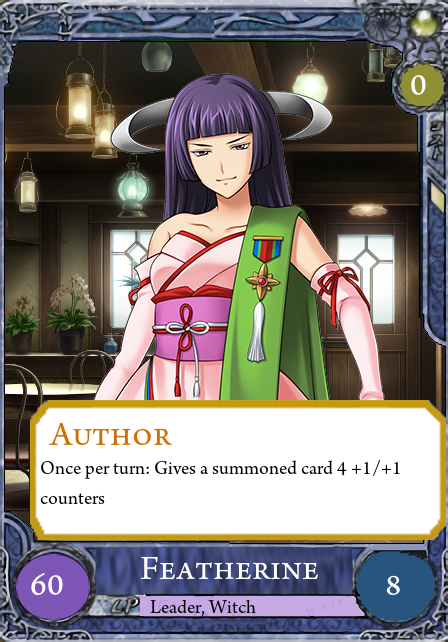
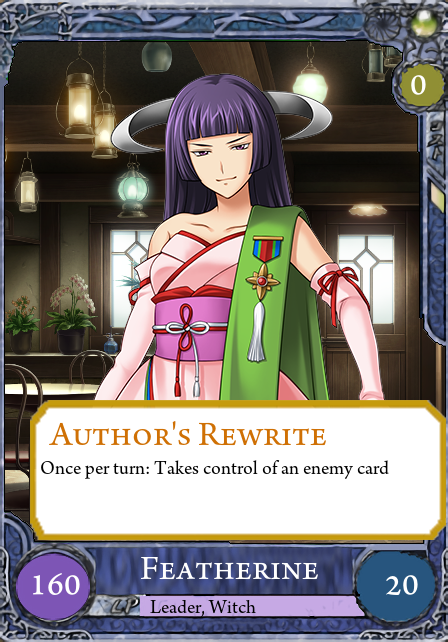
All cards in the game

diff --git a/Assets/Scripts/Deck.cs b/Assets/Scripts/Deck.cs
@@ -254,9 +254,9 @@ public class Deck
         }
     }
 
-    public void EvaCard()
+    public void Eva2Card()
     {
-        Card Eva = new Card(1, 9, 3, CardEffects.EvaEffect, "Eva", new List<TagType> { TagType.Human }, true, false, 0);
+        Card Eva = new Card(1, 9, 3, CardEffects.EvaEffect, "Eva2", new List<TagType> { TagType.Human }, true, false, 0);
         AddCardRegister(Eva);
         if (EffectListener.INSTANCE != null)
         {
@@ -304,6 +304,12 @@ public class Deck
         {
             EffectListener.INSTANCE.CanAttackFromAnywhereList.Add(Rosa);
         }
+    }
+
+    public void Battler2Card()
+    {
+        Card Battler = new Card(1, 12, 1, CardEffects.BattlerEffect, "Battler2", new List<TagType> {TagType.Human }, false, false, 1);
+        AddCardRegister(Battler);
     }
 
     public void SakutarouCard()
@@ -381,7 +387,41 @@ public class Deck
     public void Chiester556Card()
     {
         Card Chiester556 = new Card(2, 20, 10, CardEffects.Chiester556Effect, "Chiester556", new List<TagType> { TagType.Chiester, TagType.Summon }, true, false, 1);
+        if (EffectListener.INSTANCE != null)
+        {
+            EffectListener.INSTANCE.TurnEndingList.Add(Chiester556);
+        }
         AddCardRegister(Chiester556);
+    }
+
+    public void BernkastelCard()
+    {
+        Card Bernkastel = new Card(3, 36, 10, CardEffects.BernkastelEffect, "Bernkastel", new List<TagType> { TagType.Witch}, false, false, 1);
+        AddCardRegister(Bernkastel);
+    }
+
+    public void AngeBeatriceCard()
+    {
+        Card AngeBeatrice = new Card(2, 36, 10, CardEffects.AngeBeatriceEffect, "AngeBeatrice", new List<TagType> { TagType.Witch }, false, false, 2);
+        AddCardRegister(AngeBeatrice);
+    }
+
+    public void EvaBeatrice2Card()
+    {
+        Card EvaBeatrice = new Card(2, 36, 10, CardEffects.EvaBeatriceEffect, "EvaBeatrice2", new List<TagType> { TagType.Witch }, false, false, 1);
+        AddCardRegister(EvaBeatrice);
+    }
+
+    public void PieceCard()
+    {
+        Card Piece = new Card(3, 36, 10, CardEffects.PieceEffect, "Piece", new List<TagType> { TagType.Witch }, false, false, 2);
+        AddCardRegister(Piece);
+    }
+
+    public void CatsCard()
+    {
+        Card Cats = new Card(1, 1, 1, CardEffects.CatsEffect, "Cats", new List<TagType> { TagType.Cat }, true, false, 1);
+        AddCardRegister(Cats);
     }
 
     public void StartingDeck()
@@ -530,7 +570,7 @@ public class Deck
 
         AddCardToDeck(CardsByID.Rudolf, saveCard: false);
         AddCardToDeck(CardsByID.Kyrie, saveCard: false);
-        AddCardToDeck(CardsByID.Eva, saveCard: false);
+        AddCardToDeck(CardsByID.Eva2, saveCard: false);
         AddCardToDeck(CardsByID.George, saveCard: false);
         AddCardToDeck(CardsByID.Hideyoshi, saveCard: false);
         AddCardToDeck(CardsByID.Jessica, saveCard: false);
@@ -566,6 +606,17 @@ public class Deck
         AddCardToDeck(CardsByID.Cornelia, saveCard: false);
         AddCardToDeck(CardsByID.Gertrude, saveCard: false);
         AddCardToDeck(CardsByID.Dlanor, saveCard: false);
+    }
+
+    public void Featherine()
+    {
+        this.leaderCard = new Card(0, 160, 20, CardEffects.Featherineffect, "Featherine", new List<TagType> { TagType.Leader, TagType.Witch }, false, false, 1);
+        AddCardRegister(this.leaderCard, true);
+        AddCardToDeck(CardsByID.FutureGoat, 10, false);
+        AddCardToDeck(CardsByID.Bernkastel, saveCard: false);
+        AddCardToDeck(CardsByID.Piece, saveCard: false);
+        AddCardToDeck(CardsByID.AngeBeatrice, saveCard: false);
+        AddCardToDeck(CardsByID.EvaBeatrice2, saveCard: false);
     }
 
     // 1-6, 2-6, 3-6
@@ -661,13 +712,13 @@ public class Deck
         }
         else if (rn <= 15)
         {
-            possibleRewards = new List<CardsByID> {CardsByID.Rosa };
+            possibleRewards = new List<CardsByID> {CardsByID.Rosa, CardsByID.Battler2};
             int rnpr = new Random().Next(0, possibleRewards.Count);
             reward = possibleRewards[rnpr];
         }
         else
         {
-            possibleRewards = new List<CardsByID> { CardsByID.Rudolf, CardsByID.Kyrie, CardsByID.Eva, CardsByID.George, CardsByID.Jessica, CardsByID.Hideyoshi, CardsByID.Krauss };
+            possibleRewards = new List<CardsByID> { CardsByID.Rudolf, CardsByID.Kyrie, CardsByID.Eva2, CardsByID.George, CardsByID.Jessica, CardsByID.Hideyoshi, CardsByID.Krauss };
             int rnpr = new Random().Next(0, possibleRewards.Count);
             reward = possibleRewards[rnpr];
         }
@@ -720,6 +771,57 @@ public class Deck
         AddCardToInventory(reward);
     }
 
+    public static void FeatherineReward()
+    {
+        int rn = new Random().Next(1, 31);
+        CardsByID reward;
+        List<CardsByID> possibleRewards;
+        if (rn <= 5)
+        {
+            possibleRewards = new List<CardsByID> { CardsByID.Bernkastel, CardsByID.Piece };
+            int rnpr = new Random().Next(0, possibleRewards.Count);
+            reward = possibleRewards[rnpr];
+        }
+        else if (rn <= 15)
+        {
+            possibleRewards = new List<CardsByID> { CardsByID.AngeBeatrice, CardsByID.EvaBeatrice2 };
+            int rnpr = new Random().Next(0, possibleRewards.Count);
+            reward = possibleRewards[rnpr];
+        }
+        else
+        {
+            possibleRewards = new List<CardsByID> { CardsByID.Cats, CardsByID.FutureGoat };
+            int rnpr = new Random().Next(0, possibleRewards.Count);
+            reward = possibleRewards[rnpr];
+        }
+        AddCardToInventory(reward);
+    }
+    public static void GohdaReward()
+    {
+        int rn = new Random().Next(1, 31);
+        CardsByID reward;
+        List<CardsByID> possibleRewards;
+        if (rn <= 5)
+        {
+            possibleRewards = new List<CardsByID> { CardsByID.Dlanor };
+            int rnpr = new Random().Next(0, possibleRewards.Count);
+            reward = possibleRewards[rnpr];
+        }
+        else if (rn <= 15)
+        {
+            possibleRewards = new List<CardsByID> { CardsByID.Gertrude, CardsByID.Cornelia };
+            int rnpr = new Random().Next(0, possibleRewards.Count);
+            reward = possibleRewards[rnpr];
+        }
+        else
+        {
+            possibleRewards = new List<CardsByID> { CardsByID.FutureGoat };
+            int rnpr = new Random().Next(0, possibleRewards.Count);
+            reward = possibleRewards[rnpr];
+        }
+        AddCardToInventory(reward);
+    }
+    
     public Card FindCardInDeck(string name)
     {
         List<Card> cardsList = this.cards.ToList(); 
@@ -764,7 +866,7 @@ public class Deck
         Kyrie=22,
         Krauss=23,
         Natsuhi=24,
-        Eva=25,
+        Eva2=25,
         Hideyoshi=26,
         Rosa=27,
         George=28,
@@ -781,12 +883,12 @@ public class Deck
         Diana=39,
         Konpeitou=40,
         Bernkastel=41,
-        Cat=42,
+        Cats=42,
         Piece=43,
         AngeBeatrice=44,
-        EvaBeatrice=45,
+        EvaBeatrice2=45,
         FutureGoat = 46,
-        PlaceHolder47 = 47,
+        Battler2 = 47,
         PlaceHolder48 = 48,
         PlaceHolder49 = 49,
         PlaceHolder50 = 50
@@ -836,7 +938,13 @@ public class Deck
         new Card(3, 30, 15, CardEffects.Chiester00Effect, "Chiester00", new List<TagType> { TagType.Chiester, TagType.Summon }, false, false, 2),
         new Card(1, 8, 8, CardEffects.Chiester410Effect, "Chiester410", new List<TagType> { TagType.Chiester, TagType.Summon }, false, false, 1),
         new Card(1, 8, 8, CardEffects.Chiester45Effect, "Chiester45", new List<TagType> { TagType.Chiester, TagType.Summon }, false, false, 1),
-        new Card(2, 20, 10, CardEffects.Chiester556Effect, "Chiester556", new List<TagType> { TagType.Chiester, TagType.Summon }, true, false, 1)
+        new Card(2, 20, 10, CardEffects.Chiester556Effect, "Chiester556", new List<TagType> { TagType.Chiester, TagType.Summon }, true, false, 1),
+        new Card(1, 12, 1, CardEffects.BattlerEffect, "Battler2", new List<TagType> {TagType.Human }, false, false, 1),
+        new Card(3, 36, 10, CardEffects.BernkastelEffect, "Bernkastel", new List<TagType> { TagType.Witch }, false, false, 1),
+        new Card(2, 36, 10, CardEffects.AngeBeatriceEffect, "AngeBeatrice", new List<TagType> { TagType.Witch }, false, false, 2),
+        new Card(2, 36, 10, CardEffects.EvaBeatrice2Effect, "EvaBeatrice2", new List<TagType> { TagType.Witch }, false, false, 1),
+        new Card(3, 36, 10, CardEffects.PieceEffect, "Piece", new List<TagType> { TagType.Witch }, false, false, 2),
+        new Card(1, 1, 1, CardEffects.CatsEffect, "Cats", new List<TagType> { TagType.Cat }, true, false, 1),
     };
         return ret;
     }

diff --git a/Assets/Scripts/CardEffects.cs b/Assets/Scripts/CardEffects.cs
@@ -459,6 +459,16 @@ public class CardEffects
         return true;
     }
 
+    internal static bool BernkastelEffect(Card arg)
+    {
+        throw new NotImplementedException();
+    }
+
+    internal static bool AngeBeatriceEffect(Card arg)
+    {
+        throw new NotImplementedException();
+    }
+
     internal static bool KanonEffect(Card c)
     {
         CardObject kanon = c.GetTargetCardObject();
@@ -476,6 +486,16 @@ public class CardEffects
         CardObject satanCO = c.GetTargetCardObject();
         Game.INSTANCE.AddCounterEffect(satanCO, 1);
         return true;
+    }
+
+    internal static bool PieceEffect(Card arg)
+    {
+        throw new NotImplementedException();
+    }
+
+    internal static bool CatsEffect(Card arg)
+    {
+        throw new NotImplementedException();
     }
 
     internal static bool KumasawaEffect(Card c)
@@ -624,10 +644,6 @@ public class CardEffects
         }
     }
 
-    internal static bool EvaBeatriceEffect(Card arg)
-    {
-        throw new NotImplementedException();
-    }
 
     internal static bool ErikaEffect(Card arg)
     {
@@ -648,5 +664,20 @@ public class CardEffects
         {
             return false;
         }
+    }
+
+    internal static bool Featherineffect(Card arg)
+    {
+        throw new NotImplementedException();
+    }
+
+    internal static bool EvaBeatrice2Effect(Card arg)
+    {
+        throw new NotImplementedException();
+    }
+
+    internal static bool EvaBeatriceEffect(Card arg)
+    {
+        throw new NotImplementedException();
     }
 }

diff --git a/Assets/Scripts/Game.cs b/Assets/Scripts/Game.cs
@@ -77,7 +77,7 @@ public class Game : MonoBehaviour
         {
             return deckName;
         }
-        else if(deckName == "Casca")
+        else if(deckName == "CascaIsGreat")
         {
             Deck.RewardAllCards();
             return "Beatrice";
@@ -681,6 +681,14 @@ public class Game : MonoBehaviour
         else if (EnemyLeader == "Erika")
         {
             Deck.ErikaReward();
+        }
+        else if (EnemyLeader == "Featherine")
+        {
+            Deck.FeatherineReward();
+        }
+        else if (EnemyLeader == "Gohda")
+        {
+            Deck.GohdaReward();
         }
         int victories = PlayerPrefs.GetInt(EnemyLeader + "Victories");
         PlayerPrefs.SetInt(EnemyLeader + "Victories", victories + 1);

diff --git a/Assets/Scripts/DeckGrid.cs b/Assets/Scripts/DeckGrid.cs
@@ -78,7 +78,7 @@ public class DeckGrid : MonoBehaviour
             }
             i++;
         }
-        CardsOwnedText.text = $"{cardsOwned}/46";
+        CardsOwnedText.text = $"{cardsOwned}/47";
     }
 
     void GoBackToMainMenu()
